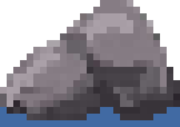
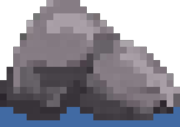
Riviere V4

diff --git a/src/source/Sprit.c b/src/source/Sprit.c
@@ -261,7 +261,7 @@ void SpritHeros(Joueur *joueur, Input *input, EffetSon *son, Entité *entité)
             }
         }
     }
-    else
+    else if (DegatBateau(&entité->tronc, &entité->Petit_rocher ,&entité->Gros_rocher) == 1)
     {
         joueur->NumSprit+=1;
         if(joueur->NumSprit<10 || joueur->NumSprit>=40)
@@ -284,6 +284,11 @@ void SpritHeros(Joueur *joueur, Input *input, EffetSon *son, Entité *entité)
             joueur->NumSprit=0;
         }
         
+    }
+    else
+    {
+        joueur->chevalier=loadImage("src/graphics/Chevalier/ChevalierBateauDegat.png");
+        drawImage(joueur->chevalier,joueur->inposx,joueur->inposy+1);
     }
 }
 
@@ -347,7 +352,7 @@ void SpritMeduse (Meduse *meduse, Joueur *joueur,Lvl *lvl, EffetSon *son)
                     meduse->Life--; 
                 }
                 //degat dague
-                if (insideVol(joueur->xdague,joueur->ydague, meduse->posmonsx, meduse->posmonsy,64,64,30)==1)
+                if (insideVol(joueur->xdague,joueur->ydague, meduse->posmonsx, meduse->posmonsy,64,64,30,15)==1)
                 {
                     meduse->CompteurSpriteDegat=1; 
                     meduse->Life--; 
@@ -560,7 +565,7 @@ void Sprityeti (Yeti *yeti, Joueur *joueur,Lvl *lvl, EffetSon *son)
                     }
                 }
                 //degat dague
-                if (insideVol(joueur->xdague,joueur->ydague, yeti->posmonsx+10, yeti->posmonsy+15,45,60,30)==1)
+                if (insideVol(joueur->xdague,joueur->ydague, yeti->posmonsx+10, yeti->posmonsy+15,45,60,30,15)==1)
                 {
                     yeti->CompteurSpriteDegat=1; 
                     yeti->Life--; 
@@ -707,7 +712,7 @@ void Sprityeti (Yeti *yeti, Joueur *joueur,Lvl *lvl, EffetSon *son)
                 yeti->boule=loadImage("src/graphics/yeti/BouleDeNeige.png");                    
                 drawImage(yeti->boule,yeti->xboule,yeti->yboule);
                 
-                if (insideVol(yeti->xboule,yeti->yboule,joueur->inposx,joueur->inposy,64,64,21)==1 && yeti->coup == 0)
+                if (insideVol(yeti->xboule,yeti->yboule,joueur->inposx,joueur->inposy,64,64,21,17)==1 && yeti->coup == 0)
                 {
                     joueur->life--;
                     yeti->coup=1;
@@ -752,7 +757,7 @@ void Sprityeti (Yeti *yeti, Joueur *joueur,Lvl *lvl, EffetSon *son)
             { 
                 yeti->boule=loadImage("src/graphics/yeti/BouleDeNeige.png");                    
                 drawImage(yeti->boule,yeti->xboule,yeti->yboule);
-                if (insideVol(yeti->xboule,yeti->yboule,joueur->inposx,joueur->inposy,64,64,21)==1 && yeti->coup == 0)
+                if (insideVol(yeti->xboule,yeti->yboule,joueur->inposx,joueur->inposy,64,64,21,17)==1 && yeti->coup == 0)
                 {
                     joueur->life--;
                     yeti->coup=1;
@@ -1078,7 +1083,7 @@ void SpritBoss (Boss *boss, Joueur *joueur, Lvl *lvl, EffetSon *son)
                     boss->Life--; 
                 }
                 //degat dague
-                if (insideVol(joueur->xdague,joueur->ydague,boss->posmonsx,boss->posmonsy,128,128,30)==1)
+                if (insideVol(joueur->xdague,joueur->ydague,boss->posmonsx,boss->posmonsy,128,128,30,15)==1)
                 {
                     boss->CompteurSpriteDegat=1; 
                     boss->Life--; 
@@ -1888,4 +1893,35 @@ void Gestion_Obstacle(Joueur *joueur,Obstacle *Petit_rocher,Obstacle *Gros_roche
             tanguy->x-=10;
         }       
     }
+
+    if (insideVol(tronc->x,tronc->y, joueur->inposx, joueur->inposy,79,70,150,52)==1)
+    {
+        if (tronc->coup == 0 && Petit_rocher->coup == 0 && Gros_rocher->coup == 0)
+        {
+            joueur->life--; 
+        }
+        tronc->coup += 1;
+    }
+    if (insideVol(Petit_rocher->x,Petit_rocher->y, joueur->inposx, joueur->inposy,79,70,110,80)==1)
+    {
+        if (tronc->coup == 0 && Petit_rocher->coup == 0 && Gros_rocher->coup == 0)
+        {
+            joueur->life--; 
+        }
+        Petit_rocher->coup += 1;
+    }
+    if (insideVol(Gros_rocher->x,Gros_rocher->y, joueur->inposx, joueur->inposy,79,70,165,105)==1)
+    {
+        if (tronc->coup == 0 && Petit_rocher->coup == 0 && Gros_rocher->coup == 0)
+        {
+            joueur->life--; 
+        }
+        Gros_rocher->coup += 1;
+    }
+
+    if (tronc->coup >= 15 || Gros_rocher->coup >= 15 || Petit_rocher->coup >=15)
+    {
+        Gros_rocher->coup = Petit_rocher->coup = tronc->coup = 0;
+    }
+    
 }

diff --git a/src/source/events.c b/src/source/events.c
@@ -485,17 +485,17 @@ int insideItem (Joueur *joueur, Boss *boss)
     }
 }
 
-//            pos objet vol x,y  pos cible    taille cible x,y         taille obj vol x
-int insideVol(int xobj, int yobj, int x, int y, int Margex, int Margey, int tailleObj)
+//            pos objet vol x,y  pos cible    taille cible x,y         taille obj vol x,y 
+int insideVol(int xobj, int yobj, int x, int y, int Margex, int Margey, int tailleObjx, int tailleObjy)
 {
     int a=0;
     int b=0;
     //si joueur 
-    if ((xobj>=x || xobj+tailleObj>=x) && (xobj<=x+Margex || xobj + tailleObj <=x+Margex))
+    if ((xobj>=x || xobj+tailleObjx>=x) && (xobj<=x+Margex || xobj + tailleObjx <=x+Margex))
     {
         a=1;
     }
-    if ((yobj>=y || yobj+tailleObj>=y) && (yobj<=y+Margey || yobj + tailleObj <= y+Margey))
+    if ((yobj>=y || yobj+tailleObjy>=y) && (yobj<=y+Margey || yobj + tailleObjy <= y+Margey))
     {
         b=1;
     }
@@ -516,4 +516,17 @@ int DegatChevalier(Meduse *meduse, Meduse *meduse1 , Meduse *meduse2, Chauvesour
     {
         return 0;
     }
+}
+
+int DegatBateau (Obstacle *tronc, Obstacle *Petit_rocher, Obstacle *Gros_rocher)
+{
+    if (tronc->coup == 0 && Gros_rocher->coup == 0 && Petit_rocher->coup == 0)
+    {
+        return 1;
+    }
+    else
+    {
+        return 0;
+    }
+    
 }

diff --git a/src/header/proto.h b/src/header/proto.h
@@ -30,8 +30,9 @@ extern int insidechevalieryeti (Joueur *joueur, Yeti *yeti);
 extern int insideBoss (Joueur *joueur, Boss *boss);
 extern int insideEclair(Joueur *joueur,int Eclairx, int Eclairy);
 extern int DegatChevalier(Meduse *meduse, Meduse *meduse1 , Meduse *meduse2, Chauvesouris *chauvesouris , Chauvesouris *chauvesouris1, Boss *boss, Yeti *yeti,Yeti *yeti1,Yeti *yeti2);
+extern int DegatBateau (Obstacle *tronc, Obstacle *Petit_rocher, Obstacle *Gros_rocher);
 extern int insideItem (Joueur *joueur, Boss *boss);
-extern int insideVol(int xobj, int yobj, int x, int y, int Margex, int Margey, int tailleObj );
+extern int insideVol (int xobj, int yobj, int x, int y, int Margex, int Margey, int tailleObjx, int tailleObjy);
 
 //init.c
 extern SDL_Renderer *getrenderer(void);

diff --git a/src/source/Main.c b/src/source/Main.c
@@ -44,6 +44,7 @@ lvl.Num=-1;
 joueur.life=3;
 joueur.NbPiece=0;
 lvl.WinDonjon=5;
+joueur.nbDague=1;
 // Initialisation de la SDL
 init("Dungeon Fate");
     Son(&son);

diff --git a/src/header/structs.h b/src/header/structs.h
@@ -69,7 +69,7 @@ typedef struct Marchand
 
 typedef struct Obstacle
 {
-    int x, y, Etat;
+    int x, y, Etat, coup;
     SDL_Texture *Image;
     
 }Obstacle;
